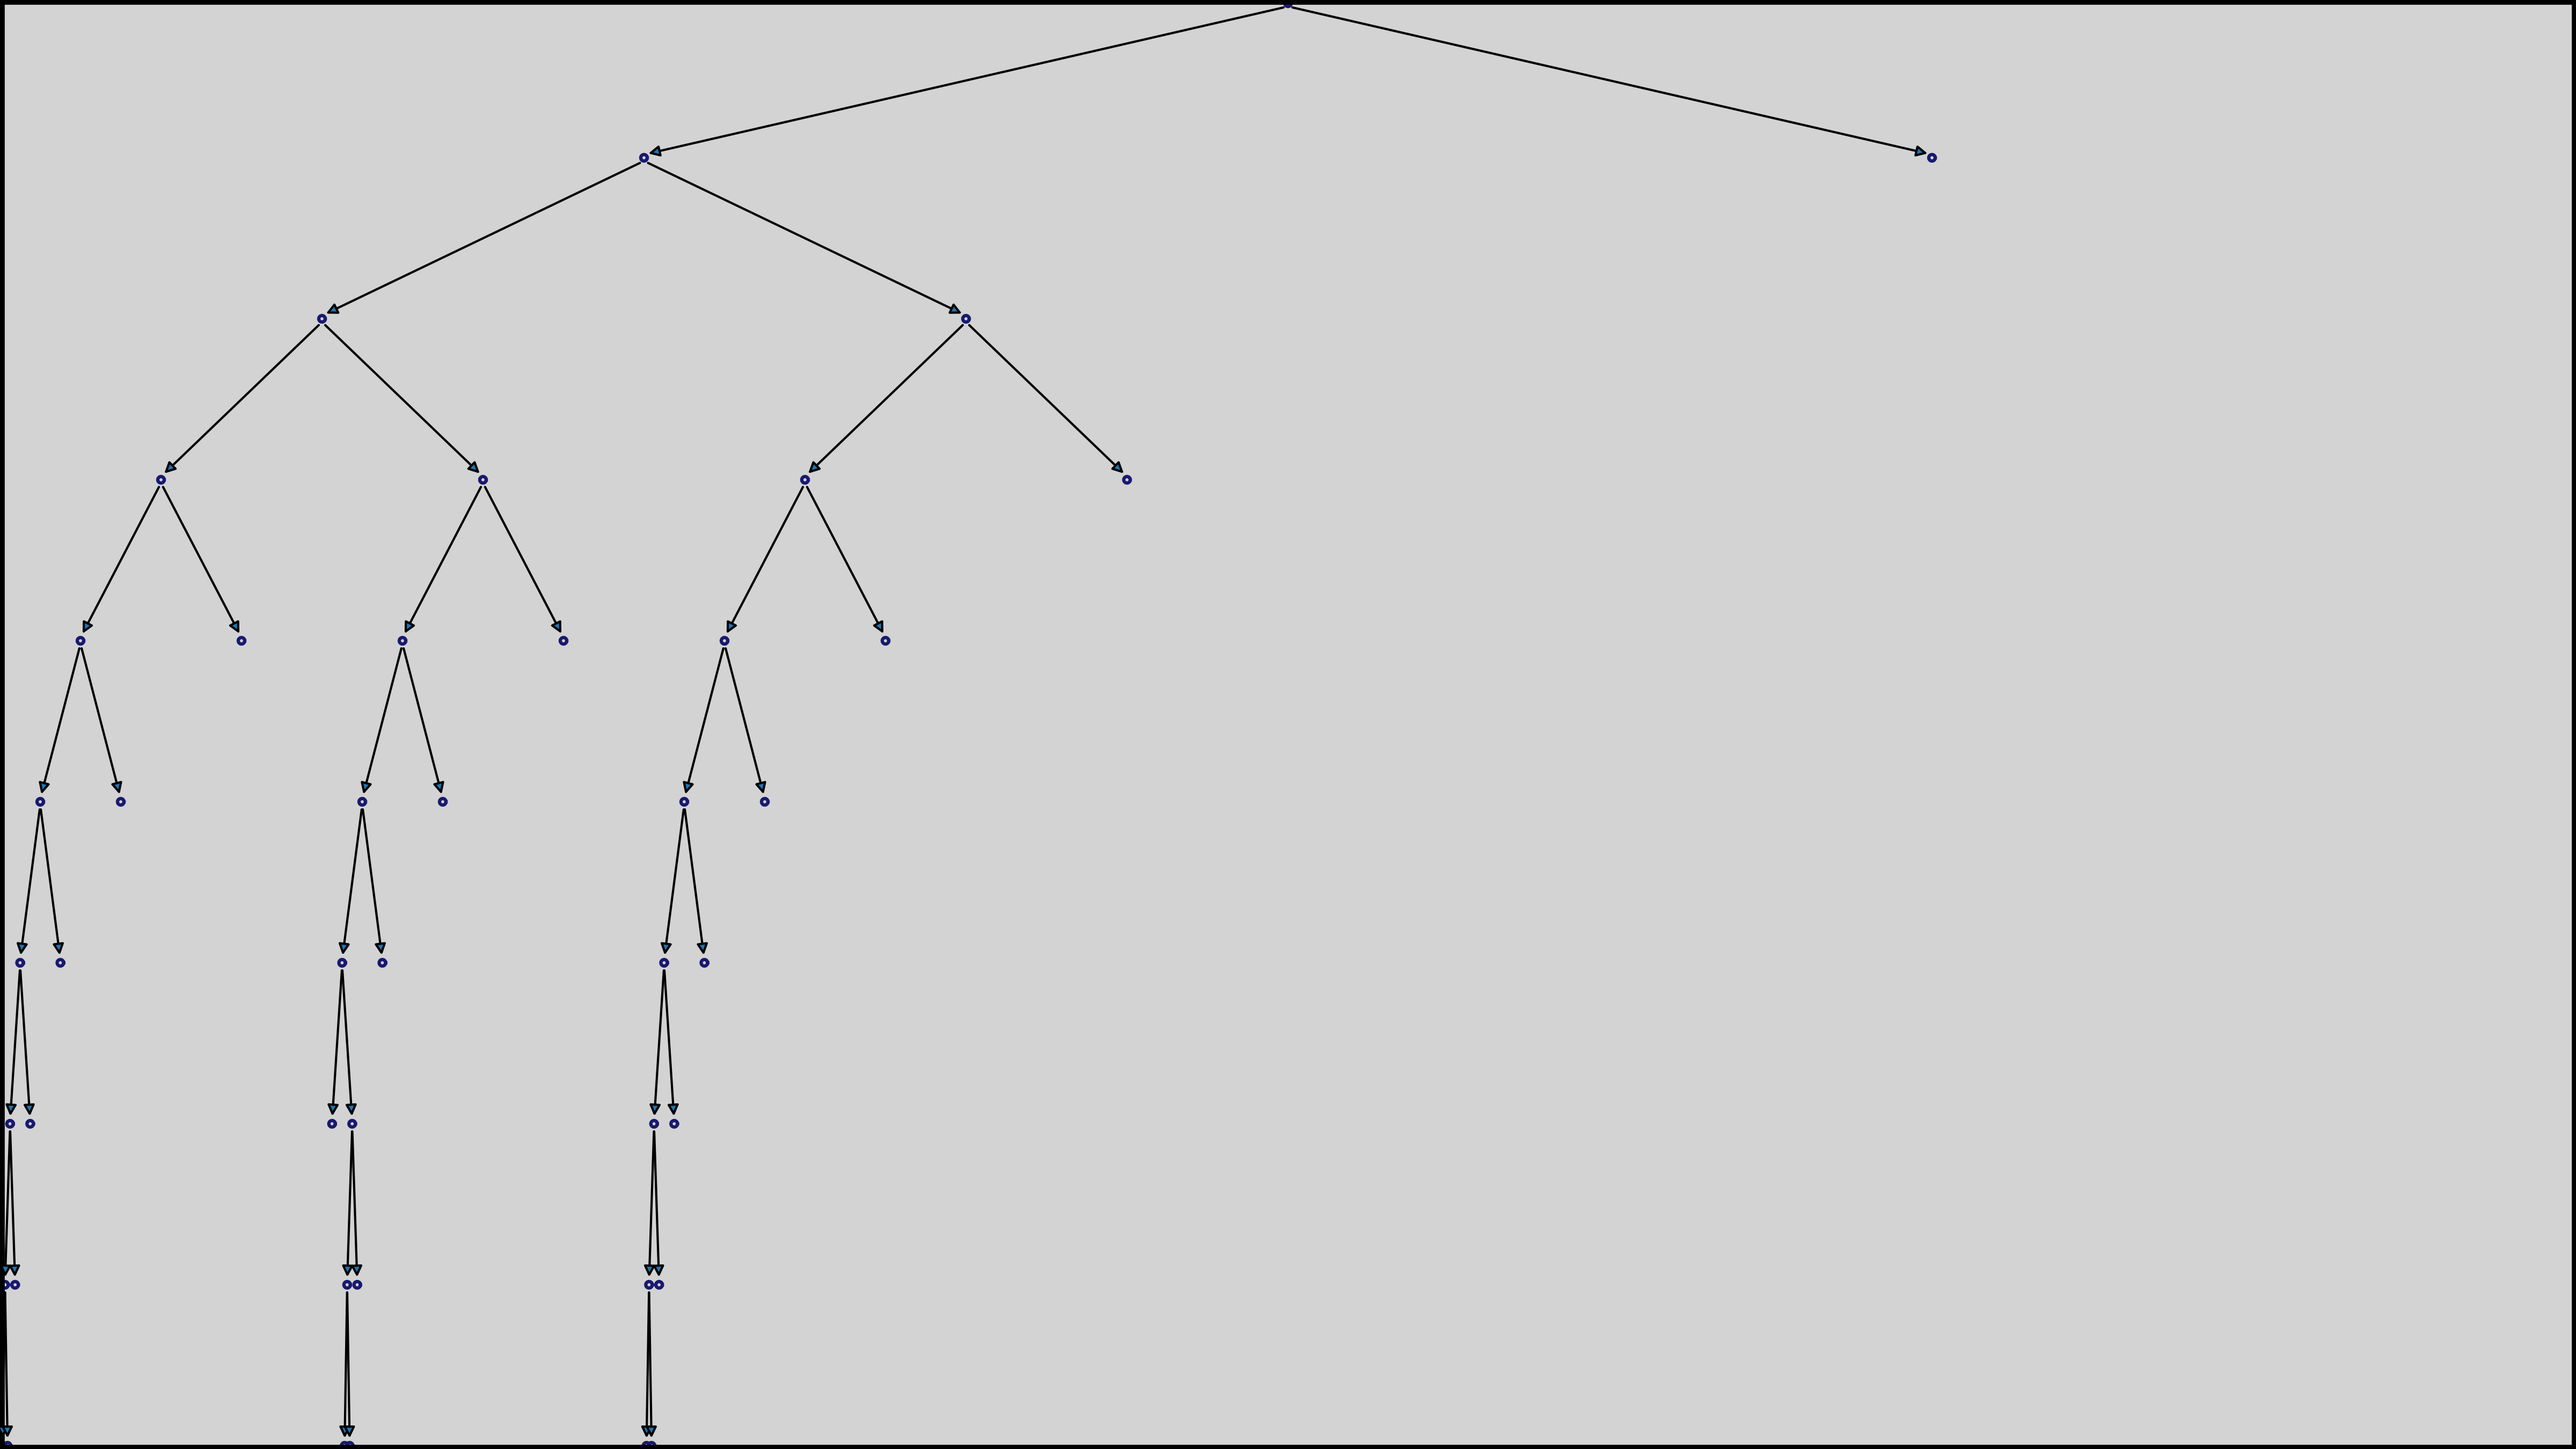
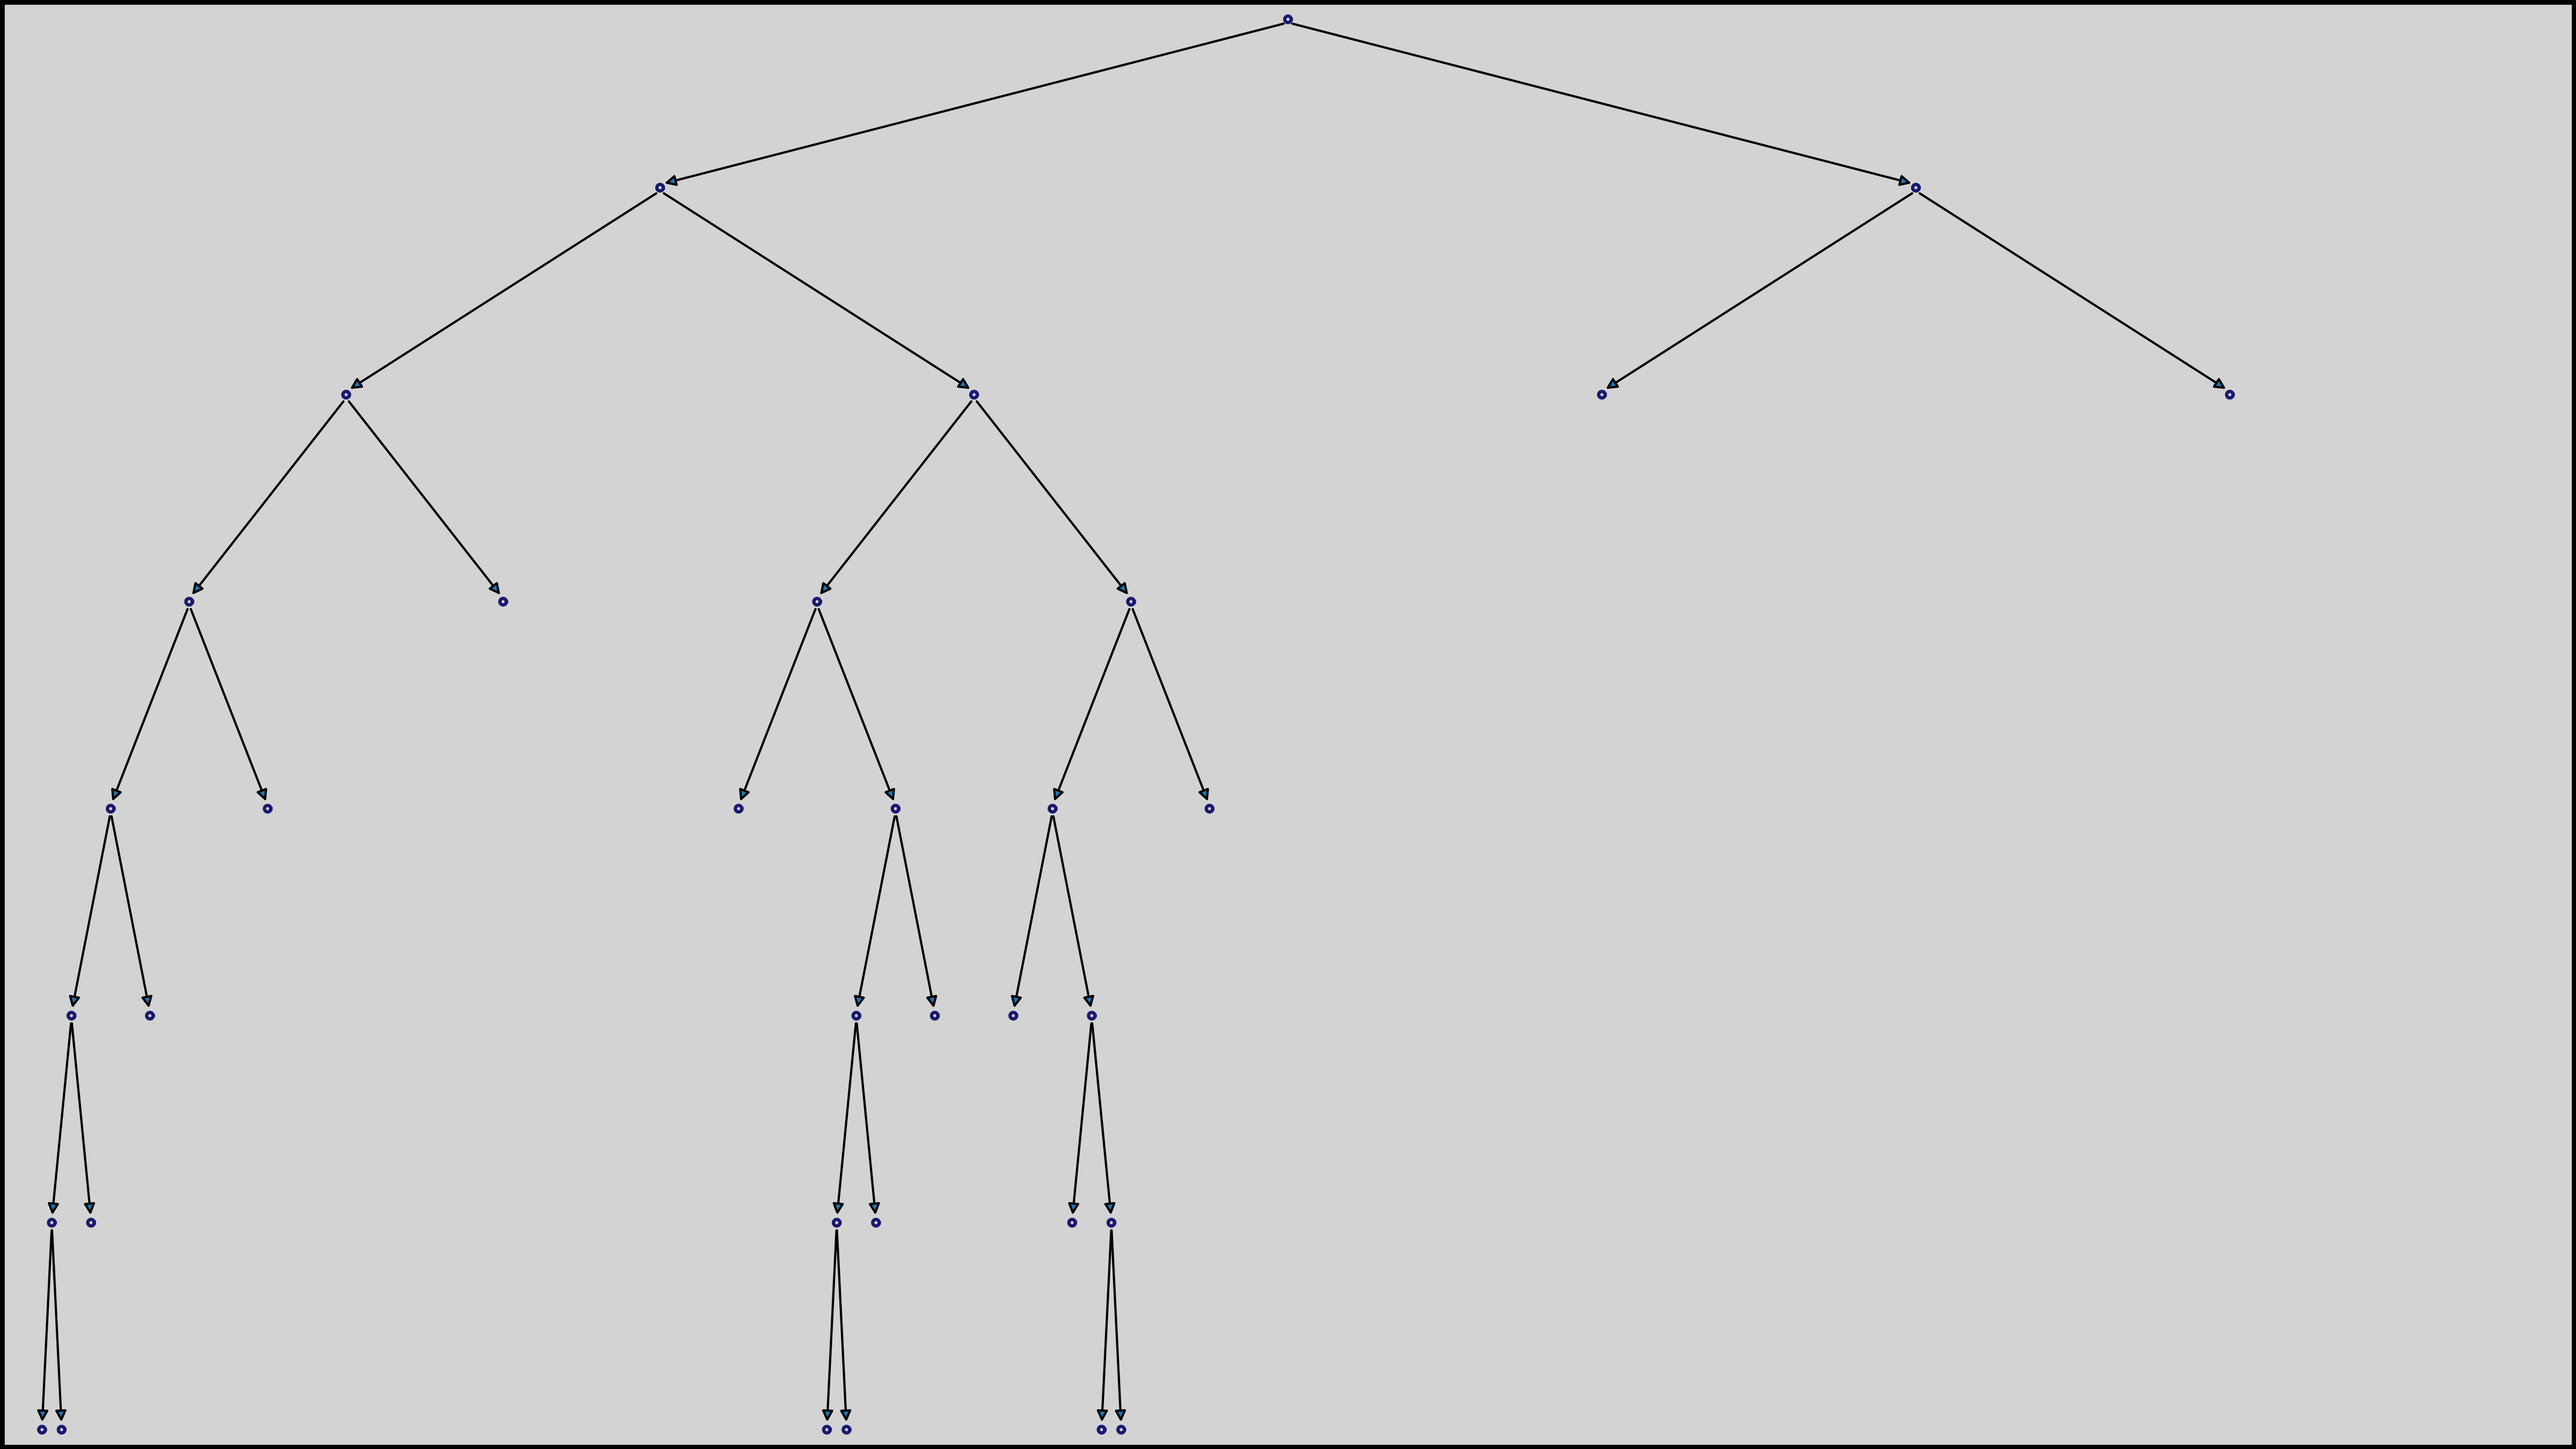
finishing tree plotting

diff --git a/Decision_Tree_Classifier.py b/Decision_Tree_Classifier.py
@@ -175,9 +175,9 @@ class Tree:
 
     #Tree Construction
     if horisontal_bins > vertical_bins:
-      radii = w / horisontal_bins
+      radii = w / horisontal_bins - 0.2
     else:
-      radii = h / vertical_bins
+      radii = h / vertical_bins - 0.2
 
     #for debugging
     radii = 0.02
@@ -191,11 +191,11 @@ class Tree:
     root = self.head
     midpoint = w/2
     height_index = 0
-
+    top_offset = 0.1
 
 
     #the root node
-    root_centre = ( (midpoint) , ( h *  ( ( vertical_bins - height_index ) / vertical_bins ) - radii  ) )
+    root_centre = ( (midpoint) , ( h *  ( ( vertical_bins - height_index ) / vertical_bins ) - radii - top_offset ) )
     centres.append( root_centre )
     texts[root_centre] = root.print()
 
@@ -207,7 +207,7 @@ class Tree:
       
       
       
-      dot_centre = ( (max + min) / 2 , ( h *  ( ( vertical_bins - bin_depth ) / vertical_bins ) + radii  ) )
+      dot_centre = ( (max + min) / 2 , ( h *  ( ( vertical_bins - bin_depth ) / vertical_bins ) + radii + top_offset  ) )
       centres.append( dot_centre )
       texts[dot_centre] = tree.print()
       if tree.left is not None:
@@ -219,11 +219,17 @@ class Tree:
       
       return dot_centre
       
-      
+    def centres_post_processing():
+      '''
+      Optemises the horisontal space on the screen to make it such that if one side of 
+      the tree is larger than the other the tree is shifted accordingly
+      '''
+
+      pass
 
     
-    L = plotTree(root.left, 0, midpoint, height_index + 1)
-    R = plotTree(root.right, midpoint, w, height_index + 1)
+    L = plotTree(root.left, 0.2, midpoint, height_index + 1)
+    R = plotTree(root.right, midpoint, w - 0.2, height_index + 1)
     arrows[root_centre] = [L,R]
   
     

diff --git a/main.py b/main.py
@@ -6,11 +6,11 @@ import numpy as np
 clean_dataset = np.loadtxt("WIFI_db/clean_dataset.txt")
 noisy_dataset = np.loadtxt("WIFI_db/noisy_dataset.txt")
 
-#test = DecisionTreeClassifier.Tree(clean_dataset)
-#test.show()
+test = Decision_Tree_Classifier.Tree(clean_dataset)
+test.show()
 
-benchmark = TB.Model_Comparison_TB(clean_dataset, 10, Decision_Tree_Classifier.Tree, Other_Classifiers.RandomClassifier, Other_Classifiers.NNClassifier)
-benchmark.all_metrics()
+#benchmark = TB.Model_Comparison_TB(clean_dataset, 10, Decision_Tree_Classifier.Tree, Other_Classifiers.RandomClassifier, Other_Classifiers.NNClassifier)
+#benchmark.all_metrics()
 
 
 #benchmark.precision()

diff --git a/Other_Classifiers.py b/Other_Classifiers.py
@@ -2,8 +2,6 @@ import random
 import numpy as np
 
 
-split_resolution = 10
-
 
 class RandomClassifier:
   def __init__(self, dataset, train_given=None, test_given=None):
